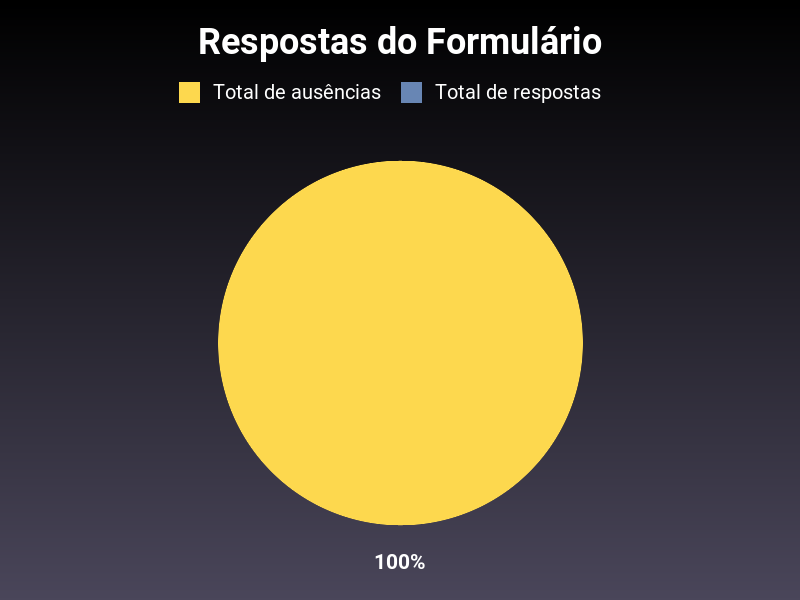
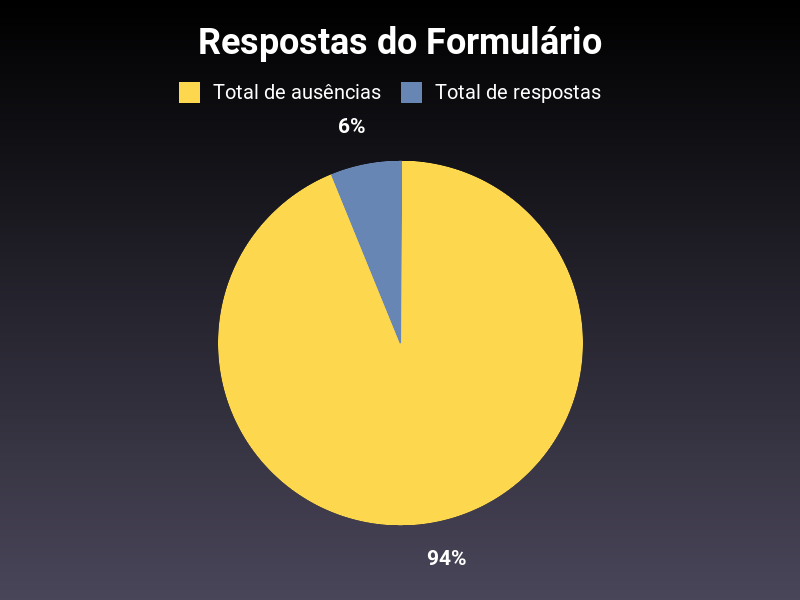
export graph ok

Changed region(s): [[0.4062, 0.27, 0.5, 0.57], [0.4688, 0.9, 0.5938, 0.96], [0.4062, 0.18, 0.4688, 0.24]]

diff --git a/camaar/coverage/index.html b/camaar/coverage/index.html
@@ -14,7 +14,7 @@
       <img src="./assets/0.12.3/loading.gif" alt="loading"/>
     </div>
     <div id="wrapper" class="hide">
-      <div class="timestamp">Generated <abbr class="timeago" title="2024-06-07T09:52:38-03:00">2024-06-07T09:52:38-03:00</abbr></div>
+      <div class="timestamp">Generated <abbr class="timeago" title="2024-06-07T13:24:46-03:00">2024-06-07T13:24:46-03:00</abbr></div>
       <ul class="group_tabs"></ul>
 
       <div id="content">

diff --git a/camaar/spec/features/export_graph.rb b/camaar/spec/features/export_graph.rb
@@ -4,16 +4,6 @@ require 'gruff'
 RSpec.feature 'Export Graph', type: :feature do
   describe 'exporting answers as graph' do
     it 'should export a graph containing answers % by students' do
-
-      # visit '/users/login'
-      # user = create(:user)
-      # expect(page).to have_content 'Bem vindo ao'
-      # expect(page).to have_content 'CAMAAR'
-      # fill_in 'email', with: user.email
-      # fill_in 'password', with: user.password
-      # click_button 'Confirmar'
-      # expect(page).to have_content 'Formulários Pendentes'
-
       graph = Gruff::Pie.new
       graph.title = "Respostas do Formulário"
 
@@ -39,8 +29,11 @@ RSpec.feature 'Export Graph', type: :feature do
       answ2 = create(:student_answer, :student_answers2)
       answ3 = create(:student_answer, :student_answers3)
 
-      graph.data 'Total de ausências', Student.count -  StudentAnswer.where(form_id: 0).count
-      graph.data 'Total de respostas', StudentAnswer.where(form_id: 0).count
+      num_students =  Student.count
+      num_answers = StudentAnswer.where(form_id: 1).count
+
+      graph.data 'Total de ausências', num_students - num_answers
+      graph.data 'Total de respostas', num_answers
       graph.write('pie_graph.png')
 
     end
